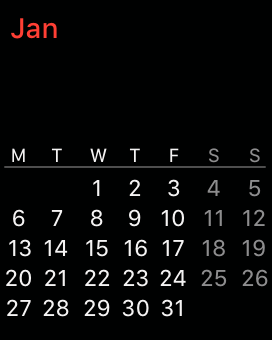
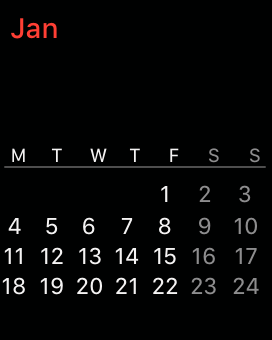
cal fix

diff --git a/_posts/2021-01-01-plan-2021.md b/_posts/2021-01-01-plan-2021.md
@@ -56,12 +56,13 @@ In 2020 we launched the crypto exchange, brand for Eco Energy World Group, web f
 
 #### To create
 
-1. Prague metro map (in progress)
-2. Akihabara map (in progress)
-3. Japanese Font (in progress)
-4. Products inspired by the streets of Prague
-5. 3D stickers
-6. Health travel pass
+1. ~~Watch Calendar~~ [January](/design/2021/01/06/watch-calendar.html)
+2. Prague metro map (in progress)
+3. Akihabara map (in progress)
+4. Japanese Font (in progress)
+5. Products inspired by the streets of Prague
+6. 3D stickers
+7. Health travel pass
 
 <br>
 
